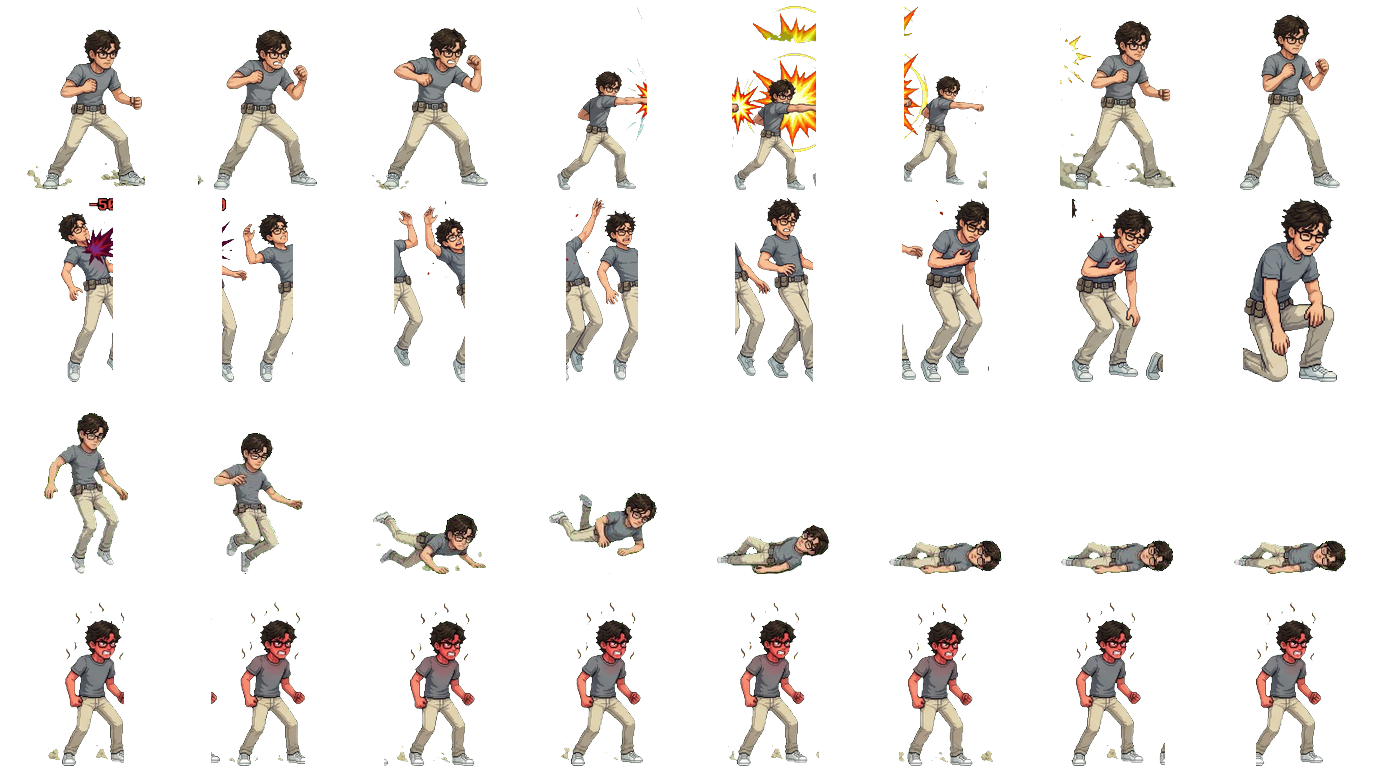
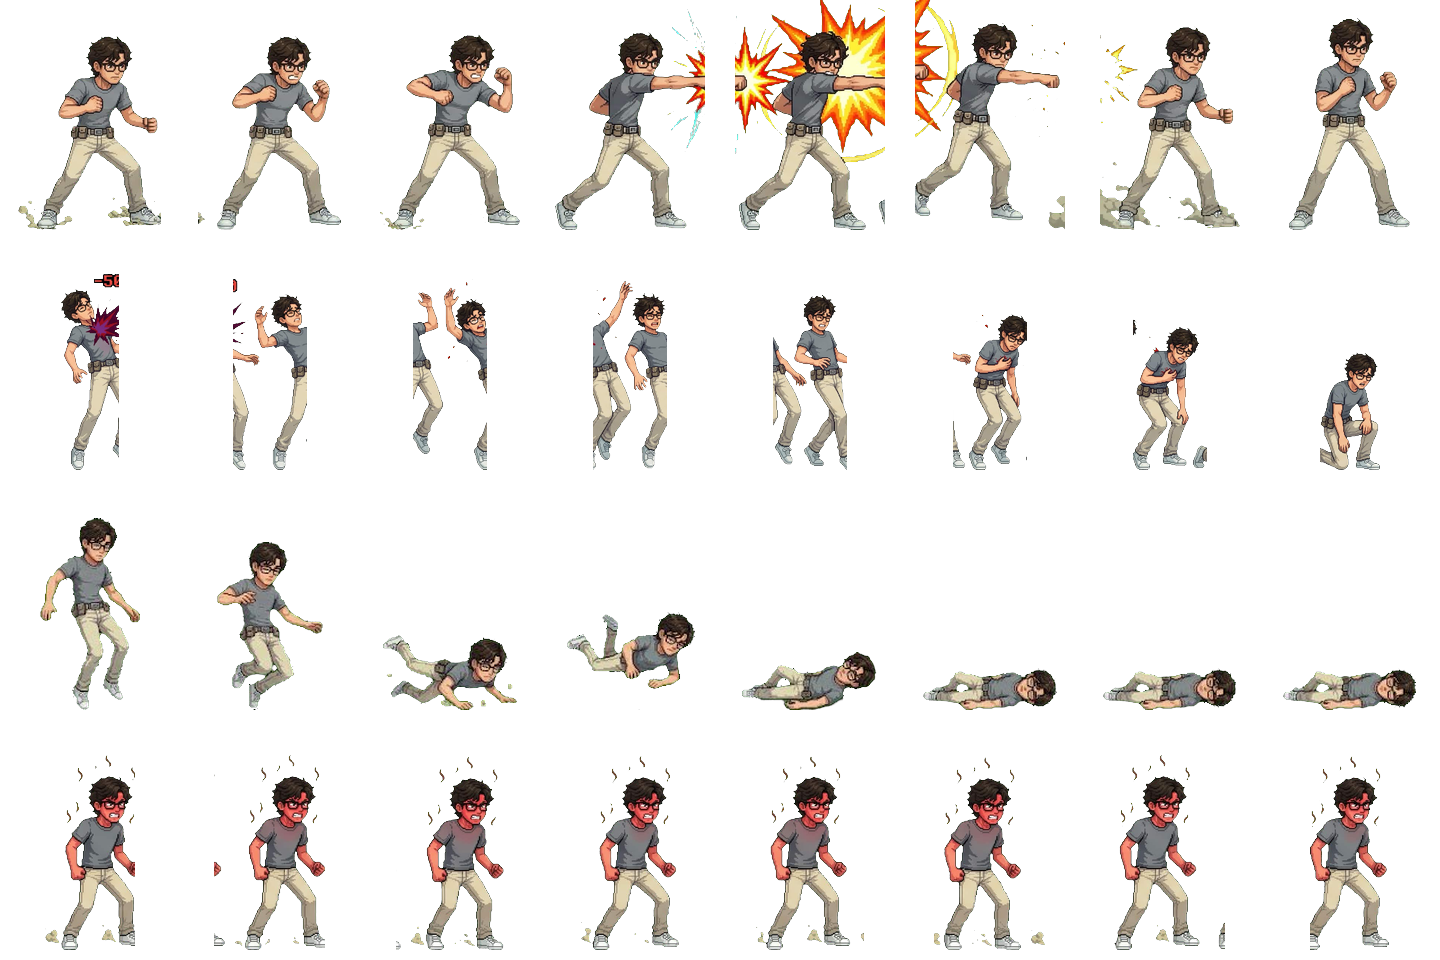
fix(hairi): calibrate uniform character body scale and ground baseline across all animation frames

diff --git a/src/components/GameCanvas.tsx b/src/components/GameCanvas.tsx
@@ -1937,10 +1937,10 @@ export const GameCanvas: React.FC<GameCanvasProps> = ({
 
       // Layer 5.63: Hairi (Pemuda Kaos Abu-abu)
       if (hairiMasterImg) {
-        const destW = 92;
-        const destH = 118;
-        const frameW = 172;
-        const frameH = 192;
+        const destW = 104;
+        const destH = 138;
+        const frameW = 180;
+        const frameH = 240;
 
         let activeSheet = hairiMasterImg;
         let hRow = 0;
@@ -1972,7 +1972,7 @@ export const GameCanvas: React.FC<GameCanvasProps> = ({
 
         const sx = hCol * frameW;
         const sy = hRow * frameH;
-        const drawY = hairiState.y + 18 - destH * (190 / 192);
+        const drawY = hairiState.y + 18 - destH * (229 / 240);
         const hScreenX = hairiState.x - camX + (hairiState.shake > 0 ? (Math.random() - 0.5) * hairiState.shake : 0);
 
         ctx.save();
